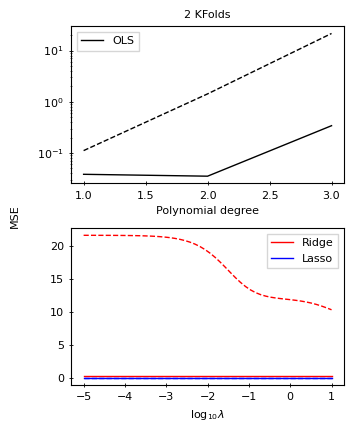
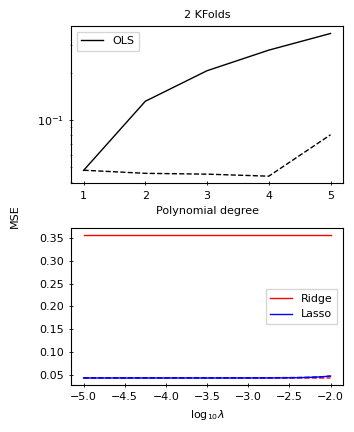
Finishing

diff --git a/project1/src.py b/project1/src.py
@@ -111,7 +111,7 @@ class Regression:
             self.dim = 2
 
         self.X_train_unscaled, self.X_test_unscaled, self.y_train, self.y_test = train_test_split(self.X, self.y_data, test_size=0.2)
-        
+
         scaler = StandardScaler()
         scaler.fit(self.X_train_unscaled)
         self.X_train = scaler.transform(self.X_train_unscaled)
@@ -189,14 +189,17 @@ class Regression:
             self.mse_ols_test[i] = mse_test
             self.r2_ols_train[i] = r2_train
             self.r2_ols_test[i] = r2_test
-
+                
         min_ols = np.min(self.mse_ols_test)
         best_r2 = np.max(self.r2_ols_test)
 
-        print('\nOLS results')
-        print('-----------')
-        print(f'Highest R2 score: {best_r2:.3f} at degree: {self.poly_degs[self.r2_ols_test == best_r2][0]}')
-        print(f'Lowest MSE: {min_ols:11.3f} at degree: {self.poly_degs[self.mse_ols_test == min_ols][0]}\n')
+        OLS_results = '\nOLS results\n-----------\n'
+        OLS_results += f'Highest R2 score: {best_r2:.3f} at degree: {self.poly_degs[self.r2_ols_test == best_r2][0]}\n'
+        OLS_results += f'Lowest MSE: {min_ols:11.3f} at degree: {self.poly_degs[self.mse_ols_test == min_ols][0]}\n'
+
+        print(OLS_results)
+
+        self.OLS_results = OLS_results
     
     def ridge(self, lambda_min, lambda_max, poly_deg, n_lambda):
         r'''
@@ -244,7 +247,9 @@ class Regression:
         
         for i in range(n_lambda):
             lambda_i = self.lambdas[i]
-            beta_tilde = np.linalg.pinv(X_train.T @ X_train + lambda_i * np.eye(X_train.shape[1])) @ X_train.T @ y_train
+            beta_tilde = np.linalg.pinv(
+                X_train.T @ X_train + lambda_i * np.eye(X_train.shape[1])
+                ) @ X_train.T @ y_train
             beta.append(beta_tilde)
 
             y_tilde = X_train @ beta_tilde
@@ -288,15 +293,19 @@ class Regression:
         best_r2_ridge = np.max(self.r2_ridge_test)
         best_r2_lasso = np.max(self.r2_lasso_test)
         
-        print('\nRidge results')
-        print('-------------')
-        print(f'Highest R2 score: {best_r2_ridge:.3f} at lambda: {self.lambdas[self.r2_ridge_test == best_r2_ridge][0]:.3e}')
-        print(f'Lowest MSE: {min_ridge:11.3f} at lambda: {self.lambdas[self.mse_ridge_test == min_ridge][0]:.3e}\n')
+        Ridge_results = '\nRidge results\n-------------\n'
+        Ridge_results += f'Highest R2 score: {best_r2_ridge:.5f} at lambda: {self.lambdas[self.r2_ridge_test == best_r2_ridge][0]:.3e}\n'
+        Ridge_results += f'Lowest MSE: {min_ridge:13.5f} at lambda: {self.lambdas[self.mse_ridge_test == min_ridge][0]:.3e}\n'
 
-        print('Lasso results')
-        print('-------------')
-        print(f'Highest R2 score: {best_r2_lasso:.3f} at lambda: {self.lambdas[self.r2_lasso_test == best_r2_lasso][0]:.3e}')
-        print(f'Lowest MSE: {min_lasso:11.3f} at lambda: {self.lambdas[self.mse_lasso_test == min_lasso][0]:.3e}\n')
+        Lasso_results = '\nLasso results\n-------------\n'
+        Lasso_results += f'Highest R2 score: {best_r2_lasso:.5f} at lambda: {self.lambdas[self.r2_lasso_test == best_r2_lasso][0]:.3e}\n'
+        Lasso_results += f'Lowest MSE: {min_lasso:13.5f} at lambda: {self.lambdas[self.mse_lasso_test == min_lasso][0]:.3e}\n'
+
+        print(Ridge_results)
+        print(Lasso_results)
+
+        self.Ridge_results = Ridge_results
+        self.Lasso_results = Lasso_results
 
     def plot_evolution(self, model, figname=None, add_lasso=True):
         r'''
@@ -387,12 +396,14 @@ class Regression:
             ax[0].plot(x, mse_test, 'r', label='Test')
             ax[0].plot(x, mse_train, 'r--', label='Train')
             ax[0].set_ylabel('MSE')
+            ax[0].set_yscale('log')
             ax[0].legend(ncol=2)
 
             ax[1].plot(x, r2_test, 'b', label='Test')
             ax[1].plot(x, r2_train, 'b--', label='Train')
             ax[1].text(1.15, 0.5, 'R2 score', transform=ax[1].transAxes, rotation=270, va='center')
             ax[1].yaxis.set_tick_params(which='both', left=False, labelleft=False, right=True, labelright=True)
+            ax[1].set_yscale('log')
             ax[1].legend(ncol=2)
 
             fig.supxlabel(x_label, fontsize=8)
@@ -480,7 +491,8 @@ class Regression:
             y_test = y_test.flatten()
             error_y_test = y_test[:, np.newaxis]
             keepdims = False 
-            scale = 'log'
+            filename = self.figname + '-bias-var-trade'
+            scale = 'linear'
         
         error = np.zeros(max_degree)
         bias = np.zeros_like(error)
@@ -544,20 +556,18 @@ class Regression:
         KFold_sklearn = KFold(n_splits=n_kfolds)
 
         if self.figname == 'geodata':
-            n_poly = 3
-            n_lambda = 50
-            lambdas = np.logspace(-5, 1, n_lambda)
+            n_poly = 30
+            poly_deg = 2
+            n_lambda = 500
+            lambdas = np.logspace(-2, 25, n_lambda)
         
         else:
             n_poly = 15
+            poly_deg = 15
             n_lambda = 500 
             lambdas = np.logspace(-4, 2, n_lambda)
-        # # n_poly = 15
-        # n_poly = 7
-        # n_lambda = 500
+
         degrees = np.arange(1, n_poly+1)
-        # # lambdas = np.logspace(-4, 2, n_lambda)
-        # lambdas = np.logspace(-10, 1, n_lambda)
 
         scores_OLS = np.zeros((n_poly, n_kfolds))
         scores_Ridge = np.zeros((n_lambda, n_kfolds))
@@ -567,6 +577,7 @@ class Regression:
         est_MSE_Ridge_sklearn = np.zeros(n_lambda)
         est_MSE_Lasso_sklearn = np.zeros_like(est_MSE_Ridge_sklearn)
 
+        count = 0
         for k in range(n_kfolds):
             inds = kfolds[k]
             boolean = np.zeros_like(indices, dtype=bool)
@@ -599,13 +610,20 @@ class Regression:
 
 
             # Ridge and Lasso
-            poly = PolynomialFeatures(degree=n_poly)
+            poly = PolynomialFeatures(degree=poly_deg)
             X_train = poly.fit_transform(x_train)
             X_test = poly.fit_transform(x_test)
             X_sklearn = poly.fit_transform(X)
 
             for l in range(len(lambdas)):
-                beta_Ridge = np.linalg.pinv(X_train.T @ X_train + lambdas[l] * np.eye(X_train.shape[1])) @ X_train.T @ y_train
+                _singular = X_train.T @ X_train + lambdas[l] * np.eye(X_train.shape[1])
+                U, s, VT = np.linalg.svd(_singular)
+                D = np.zeros((len(U), len(VT)))
+                np.fill_diagonal(D, s)
+                _unsingular = U @ D @ VT 
+                inv = np.linalg.pinv(_unsingular)
+
+                beta_Ridge = inv @ X_train.T @ y_train
                 y_pred_Ridge = X_test @ beta_Ridge
                 scores_Ridge[l, k] = np.sum((y_pred_Ridge - y_test)**2) / np.size(y_pred_Ridge)
 
@@ -615,12 +633,15 @@ class Regression:
                 est_MSE_Ridge_sklearn[l] = np.mean(-MSE_Ridge_sklearn)
 
                 # Sklearn' Lasso results
-                lasso = Lasso(lambdas[l], fit_intercept=False)
+                lasso = Lasso(lambdas[l], fit_intercept=False, tol=1e-2, max_iter=100000)
                 y_pred_Lasso = lasso.fit(X_train, y_train).predict(X_test)
                 scores_Lasso[l, k] = np.sum((y_pred_Lasso - y_test)**2) / np.size(y_pred_Lasso)
 
                 MSE_Lasso_sklearn = cross_val_score(lasso, X_sklearn, y, scoring='neg_mean_squared_error', cv=KFold_sklearn)
                 est_MSE_Lasso_sklearn[l] = np.mean(-MSE_Lasso_sklearn)
+            
+                print(f'{(count+1) / (len(lambdas) * n_kfolds) * 100:.3f} %')
+                count += 1
 
         
         est_MSE_OLS = np.mean(scores_OLS, axis=1)
@@ -636,10 +657,10 @@ class Regression:
         ax1.set_yscale('log')
         ax1.legend()
 
-        ax2.plot(np.log10(lambdas), est_MSE_Ridge, color='r', label=r'Ridge')
-        ax2.plot(np.log10(lambdas), est_MSE_Ridge_sklearn, 'r--')
         ax2.plot(np.log10(lambdas), est_MSE_Lasso, color='b', label=r'Lasso')
         ax2.plot(np.log10(lambdas), est_MSE_Lasso_sklearn, 'b--')
+        ax2.plot(np.log10(lambdas), est_MSE_Ridge, color='r', label=r'Ridge')
+        ax2.plot(np.log10(lambdas), est_MSE_Ridge_sklearn, 'r--')
         ax2.set_xlabel(r'$\log_{10}\lambda$')
         ax2.legend()
 

diff --git a/project1/geodata.py b/project1/geodata.py
@@ -4,26 +4,32 @@ import matplotlib.pyplot as plt
 from mpl_toolkits.mplot3d import Axes3D
 from matplotlib import cm
 from src import Regression, set_size
+from sklearn.preprocessing import PolynomialFeatures, StandardScaler
 
 # Load the terrain
 terrain1 = np.array(imread('n59_e008_1arc_v3.tif')).T
 terrain2 = np.array(imread('n59_e007_1arc_v3.tif')).T
 terrain = np.concatenate(np.array([terrain2, terrain1])).T / 1e3
 
-n_points = np.min(terrain.shape)
-terrain = terrain[:n_points, :n_points]
+np.random.seed(2023)
 
-x = np.arange(n_points)
-y = np.arange(n_points)
+tot_points = np.min(terrain.shape)
+n_samples = 1000
+data_samples = np.random.randint(0, tot_points, size=(n_samples, 2))
+x = data_samples[:, 0]
+y = data_samples[:, 1]
+
+terrain = terrain[x, y]
 
 reg = Regression(x, y, terrain.T, 'geodata')
 reg.OLS(30, store_beta=False)
 reg.plot_evolution('OLS')
-reg.ridge(-5, 1, 3, 50)
+reg.ridge(-5, -2, 5, 500)
+print(reg.OLS_results)
 reg.plot_evolution('ridge')
 reg.plot_evolution('lasso')
-reg.bias_variance_tradeoff(max_degree=10, n_bootstraps=50)
-reg.cross_validation(n_kfolds=2)
+reg.bias_variance_tradeoff(max_degree=16, n_bootstraps=100)
+reg.cross_validation(n_kfolds=10)
 
 plt.show()
 
@@ -39,10 +45,5 @@ ax.set_ylabel('Y [arcsec]')
 fig.tight_layout()
 fig.savefig('figures/geo-data.pdf')
 fig.savefig('figures/geo-data.png')
-
-X, Y = np.meshgrid(x, y)
-fig = plt.figure()
-ax = fig.add_subplot(projection='3d')
-ax.plot_surface(X, Y, terrain.T, cmap='terrain', linewidth=0, antialiased=False)
 
 plt.show()
